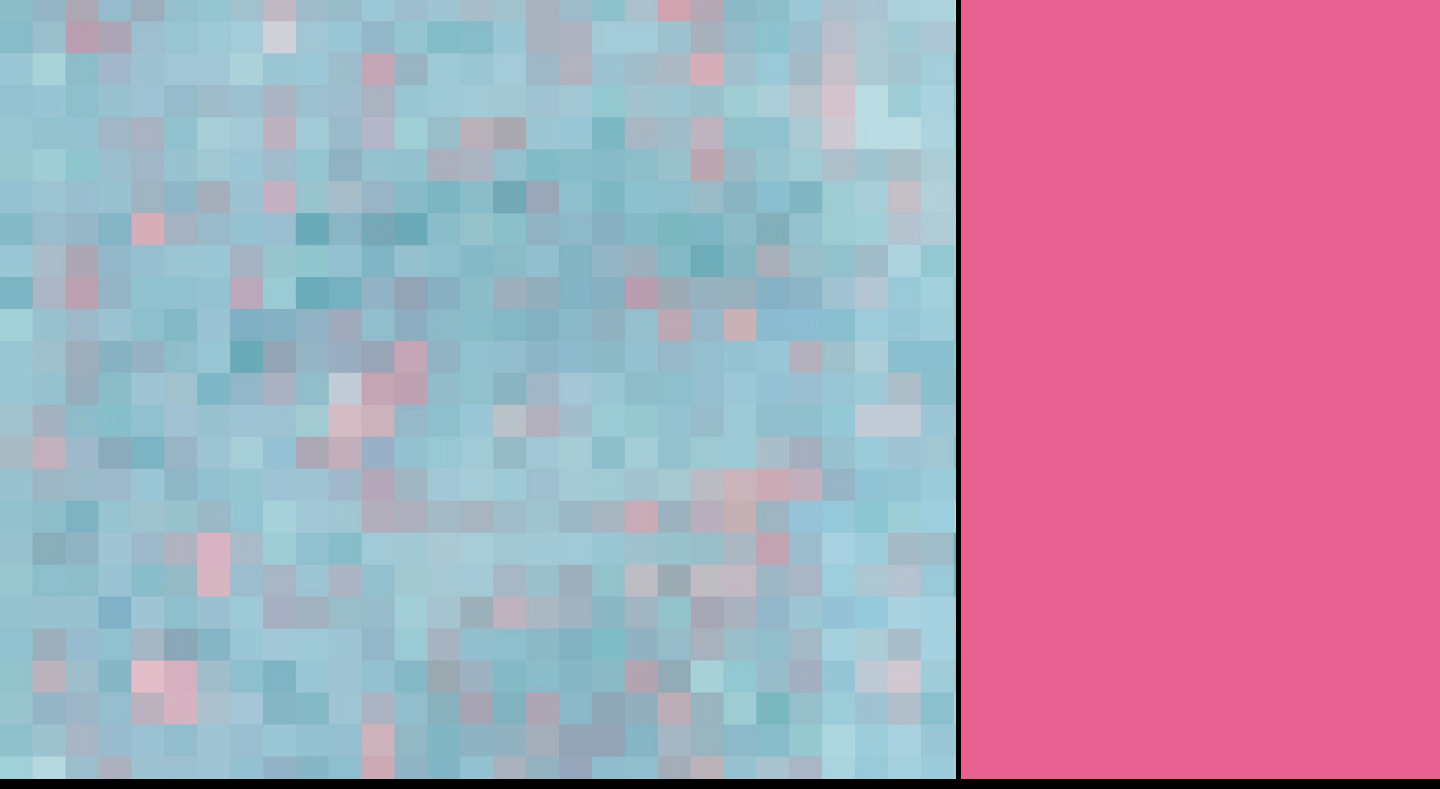
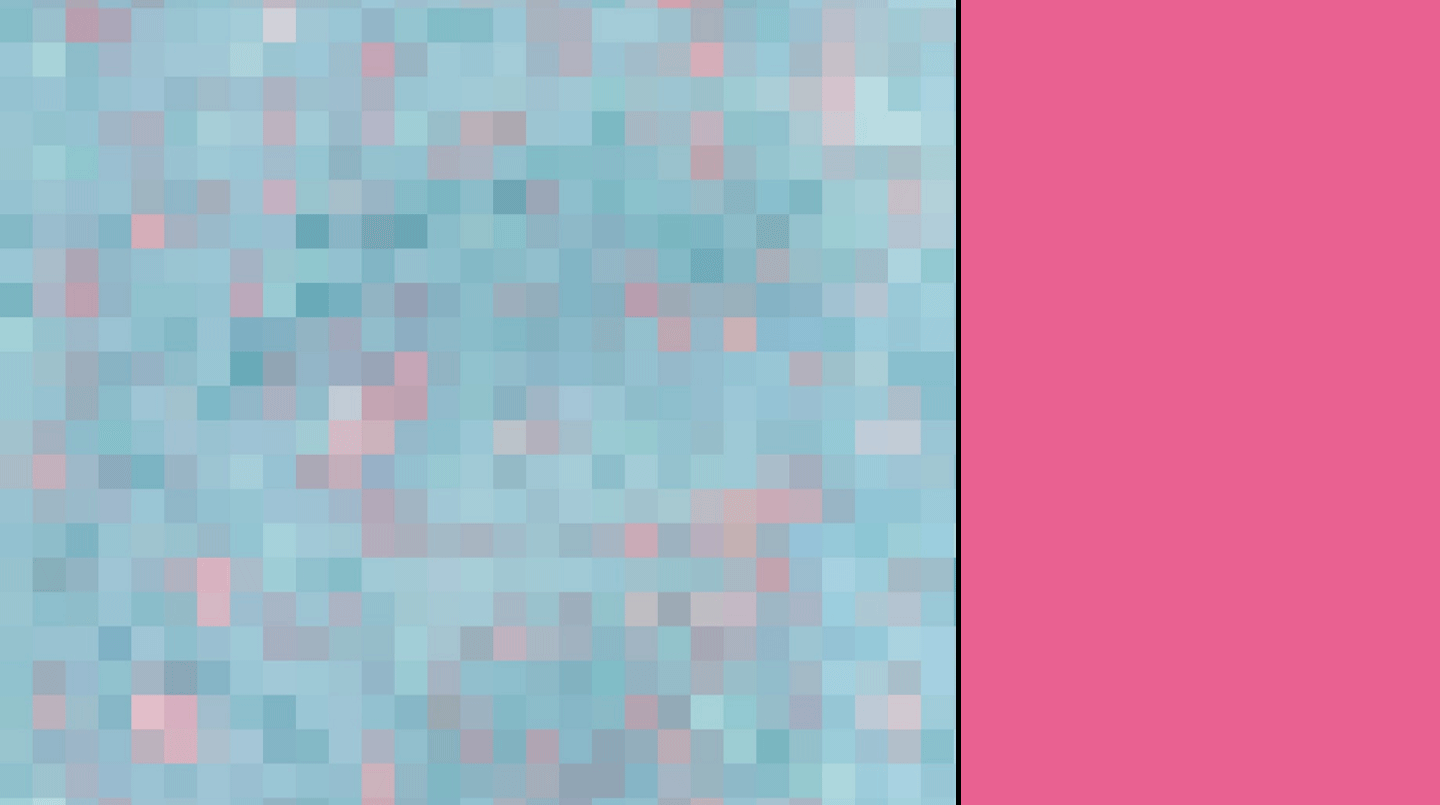
update

diff --git a/css/components/banner.css b/css/components/banner.css
@@ -1,6 +1,7 @@
 .banner {
+    display: flex;
     background-image: url(../../assets/img/photo.png);
-    background-repeat: no-repeat;
+    background-repeat: repeat-y;
     background-size: 100%;
     height: 500px;
     padding-top: 115px;
@@ -13,6 +14,7 @@
     display: flex;
     flex-direction: column;
     width: 687px;
+    height: auto;
 }
 
 .banner .box {
@@ -23,3 +25,4 @@
     display: flex;
     justify-content: space-around;
 }
+

diff --git a/css/components/wrapper-skill.css b/css/components/wrapper-skill.css
@@ -1,6 +1,6 @@
 .wrapper-skill {
     display: flex;
-    flex-wrap: wrap;
+    align-items: center;
     max-width: 960;
     margin-left: auto;
     margin-right: auto;

diff --git a/css/components/main-action.css b/css/components/main-action.css
@@ -16,3 +16,5 @@
     height: 10px;
     margin-right: 10px;
 }
+
+
